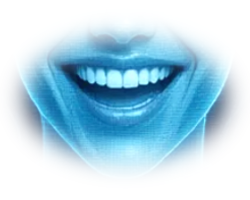
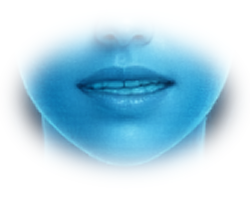
0.96.110: mouth shapes from ComfyUI Expression Editor pictures, make_mouths tool
Claude-Session: https://claude.ai/code/session_014xZyyvKse2sKH34U51trSv

diff --git a/tools/make_mouths.py b/tools/make_mouths.py
@@ -1,0 +1,113 @@
+"""Turn mouth pictures made in ComfyUI (the Expression Editor) into Starling's mouth cut-outs.
+
+Usage (from the Starling folder; needs Pillow and numpy only):
+    python tools/make_mouths.py FOLDER
+FOLDER holds 512 x 768 pictures of her (made from starling_base_512x768.png) named
+    ah.png eh.png ee.png oh.png oo.png pressed.png fv.png smile.png
+(any of them; the ones you leave out are left alone). The mouth area is cut from each, lined up with her still picture,
+its colour matched to the still picture, and written to ui/assets/hologram/<name>.png. Add --check to only print the numbers
+and write a picture of the result to FOLDER/check.png without changing anything.
+"""
+
+import json
+import sys
+from pathlib import Path
+
+import numpy as np
+from PIL import Image
+
+ASSETS = Path(__file__).resolve().parent.parent / "ui" / "assets" / "hologram"
+NAMES = ("ah", "eh", "ee", "oh", "oo", "pressed", "fv", "smile")
+BOX = (270, 330, 250, 200)                    # where the mouth cut-outs sit on her 784 x 1168 base picture (hologram.json)
+OUT_W, OUT_H = 512, 768                       # the size of the ComfyUI pictures
+SX, SY = 516 / 784.0, 768 / 1168.0            # base picture -> the 512 x 768 picture (scaled to 768 tall, then 2 pixels cropped each side)
+CROP_X = 2
+
+
+def to_small(base):
+    """Her still picture the way the ComfyUI picture was made from it (so the two can be compared)."""
+    return base.resize((516, 768), Image.LANCZOS).crop((CROP_X, 0, CROP_X + OUT_W, OUT_H))
+
+
+def grey(image, box):
+    return np.asarray(image.convert("L").crop(box), dtype=np.float32)
+
+
+def find_shift(reference, picture, reach=8):
+    """How far the face in the new picture has moved from the still picture (looks at the eyes and nose, not the mouth)."""
+    box = (150, 110, 370, 235)
+    want = grey(reference, box)
+    best = (1e9, 0, 0)
+    for dy in range(-reach, reach + 1):
+        for dx in range(-reach, reach + 1):
+            moved = grey(picture, (box[0] + dx, box[1] + dy, box[2] + dx, box[3] + dy))
+            error = float(np.abs(moved - want).mean())
+            if error < best[0]:
+                best = (error, dx, dy)
+    return best
+
+
+def cut(picture, dx, dy):
+    """The mouth box, cut from the ComfyUI picture and scaled back up to 250 x 200 (bicubic)."""
+    x0 = BOX[0] * SX - CROP_X + dx
+    y0 = BOX[1] * SY + dy
+    return picture.transform((BOX[2], BOX[3]), Image.AFFINE, (SX, 0, x0, 0, SY, y0), resample=Image.BICUBIC)
+
+
+def make(name, picture, base, alpha_from, check=False):
+    reference = to_small(base)
+    error, dx, dy = find_shift(reference, picture)
+    sprite = np.asarray(cut(picture.convert("RGB"), dx, dy), dtype=np.float32)
+    still = np.asarray(base.crop((BOX[0], BOX[1], BOX[0] + BOX[2], BOX[1] + BOX[3])).convert("RGB"), dtype=np.float32)
+    alpha = np.asarray(alpha_from)[..., 3].astype(np.float32) / 255.0
+    outside = alpha < 0.15                                           # skin around the mouth: should look the same as the still picture
+    offset = (still[outside] - sprite[outside]).mean(axis=0) if outside.sum() > 50 else np.zeros(3)
+    sprite = np.clip(sprite + offset, 0, 255)
+    rgba = np.dstack([sprite, alpha * 255.0]).astype(np.uint8)
+    print("%-8s shift (%+d, %+d) px, face match error %.1f, colour shift (%+.0f %+.0f %+.0f)" % (name, dx, dy, error, *offset))
+    return Image.fromarray(rgba, "RGBA")
+
+
+def main(argv):
+    check = "--check" in argv
+    args = [a for a in argv if not a.startswith("--")]
+    if len(args) != 1:
+        print(__doc__)
+        return 1
+    folder = Path(args[0])
+    base = Image.open(ASSETS / json.loads((ASSETS / "hologram.json").read_text(encoding="utf-8"))["base"]).convert("RGB")
+    old_alpha = Image.open(ASSETS / "ah.png").convert("RGBA")
+    made = {}
+    for name in NAMES:
+        path = folder / ("%s.png" % name)
+        if not path.exists():
+            continue
+        picture = Image.open(path)
+        if picture.size != (OUT_W, OUT_H):
+            print("%s: the picture is %d x %d but should be %d x %d, skipped" % (name, picture.width, picture.height, OUT_W, OUT_H))
+            continue
+        existing = ASSETS / ("%s.png" % name)
+        alpha_from = Image.open(existing).convert("RGBA") if existing.exists() else old_alpha
+        made[name] = make(name, picture, base, alpha_from, check)
+    if not made:
+        print("No pictures found in", folder)
+        return 1
+    if check:
+        # a picture of the result: her still face with each new mouth on it
+        face = base.crop((200, 220, 590, 560))
+        sheet = Image.new("RGB", (face.width * len(made), face.height))
+        for i, (name, sprite) in enumerate(made.items()):
+            tile = face.copy()
+            tile.paste(sprite.convert("RGB"), (BOX[0] - 200, BOX[1] - 220), sprite.split()[3])
+            sheet.paste(tile, (i * face.width, 0))
+        sheet.save(folder / "check.png")
+        print("wrote", folder / "check.png")
+        return 0
+    for name, sprite in made.items():
+        sprite.save(ASSETS / ("%s.png" % name))
+    print("wrote %d mouth pictures to %s" % (len(made), ASSETS))
+    return 0
+
+
+if __name__ == "__main__":
+    sys.exit(main(sys.argv[1:]))

diff --git a/tests/test_make_mouths.py b/tests/test_make_mouths.py
@@ -1,0 +1,52 @@
+"""tools/make_mouths.py: cut the mouth from a ComfyUI picture and fit it to her still picture."""
+
+import json
+import sys
+import tempfile
+import unittest
+from pathlib import Path
+
+import numpy as np
+from PIL import Image
+
+sys.path.insert(0, str(Path(__file__).resolve().parent.parent / "tools"))
+import make_mouths as mm  # noqa: E402
+
+
+class MouthToolTests(unittest.TestCase):
+    def setUp(self):
+        self.base = Image.open(mm.ASSETS / "base.jpg").convert("RGB")
+        self.still = mm.to_small(self.base)
+
+    def test_the_still_picture_matches_itself_with_no_shift(self):
+        error, dx, dy = mm.find_shift(self.still, self.still)
+        self.assertEqual((dx, dy), (0, 0))
+        self.assertLess(error, 0.01)
+
+    def test_a_moved_face_is_found(self):
+        moved = Image.new("RGB", self.still.size)
+        moved.paste(self.still, (0, 3))                 # face 3 pixels lower
+        error, dx, dy = mm.find_shift(self.still, moved)
+        self.assertEqual((dx, dy), (0, 3))               # look 3 pixels lower in the new picture
+
+    def test_the_cut_out_has_the_right_size_and_keeps_the_old_shape(self):
+        old = Image.open(mm.ASSETS / "ah.png").convert("RGBA")
+        sprite = mm.make("ah", self.still, self.base, old)
+        self.assertEqual(sprite.size, (mm.BOX[2], mm.BOX[3]))
+        self.assertEqual(sprite.mode, "RGBA")
+        self.assertTrue(np.array_equal(np.asarray(sprite)[..., 3], np.asarray(old)[..., 3]))
+
+    def test_the_mouth_pictures_that_ship_are_the_right_size(self):
+        meta = json.loads((mm.ASSETS / "hologram.json").read_text(encoding="utf-8"))
+        for name in mm.NAMES:
+            self.assertEqual(Image.open(mm.ASSETS / ("%s.png" % name)).size, (mm.BOX[2], mm.BOX[3]), name)
+            self.assertIn(name, meta["sprites"])
+
+    def test_a_wrong_size_picture_is_skipped(self):
+        folder = Path(tempfile.mkdtemp())
+        Image.new("RGB", (100, 100)).save(folder / "ah.png")
+        self.assertEqual(mm.main([str(folder)]), 1)
+
+
+if __name__ == "__main__":
+    unittest.main()

diff --git a/core/version.py b/core/version.py
@@ -1,2 +1,2 @@
 """The one place the version number lives. The updater compares this with the newest GitHub release."""
-__version__ = "0.96.109"
+__version__ = "0.96.110"

diff --git a/README.md b/README.md
@@ -40,6 +40,8 @@ New in 0.90.2: AUSTRALIAN VOICE INSTALL FIX. On a computer where the normal voic
 New in 0.90.3: TWO COMMANDS FROM A TESTER'S LOG. (1) 'FSS off' (and 'turn off FSS', 'FSS closed') now closes the full spectrum scanner; before it said 'that isn't a command I have'. (2) 'Hide biology' and 'show biology' now work without having to say 'overlay' or 'list' as well. Not tested live.
 New in 0.90.4: FIXES FROM A STREAM LOG. (1) A real bug: once, 'weapons away' did nothing and she said 'Elite Dangerous is not the active window' even though it was, because two parts of Starling shared one Windows window-listing call and tripped over each other; each now has its own. (2) 'Hello, how are you?' got a strange 'how long have you felt that way?' answer; greetings joined to 'how are you' now work, and slang like 'wassup', 'whats up' and 'yo' too (also from stream chat). (3) 'Hide all overlays' is understood when it is misheard as 'hide at all overlays' or 'height overlays'. (4) Saying just 'hardpoints' toggles the hardpoints. (5) The log no longer fills with a YouTube 'looking for live chat' line every 30 seconds while you are not live. Windows parts untested live.
 New in 0.90.5: SHE FEELS MORE ALIVE (from a stream log). (1) Slow chat answers no longer hold up your commands: the small chat model takes 3 to 6 seconds, and a 'weapons away' said in that time used to wait behind it. Chat now thinks on its own thread. (2) 'What was the terraformable world in this system?' / 'what did we find in this system?' is answered from what the scanner showed her (terraformable, earth-like, water and ammonia worlds in the system you are in). (3) 'Can you remember my dogs' names?' works, lists all the pets you told her about, and if you haven't told her she says so instead of inventing names (a small chat model once made up 'Luna and Charlie'). (4) 'Thank you for being a good ship' gets one 'No problem', not that plus a second helpdesk-style answer; and helpdesk phrases like 'just let me know' from the chat model are thrown away so she keeps her own voice. Not tested live.
+New in 0.96.110: HER MOUTH SHAPES ARE NOW FROM YOUR COMFYUI PICTURES. The eight mouth pictures she speaks with (ah, eh, ee, oh, oo, pressed lips, f/v, smile) were replaced with the ones you made in the Expression Editor. A new tool, `python tools/make_mouths.py FOLDER`, cuts the mouth from each 512 x 768 picture, lines it up with her still picture (it measures how far the face moved) and matches the colour so there is no visible patch; add --check for a side-by-side picture without changing anything. Your originals are kept in docs/mouth_sources (including smile_open, which is not used yet). NOT TESTED on screen: how it looks while she talks. The 'ah' picture had her head 8 pixels higher than the still (the biggest shift), so watch for the mouth sitting a touch high on that one. The f/v picture was the hardest shape and may not show teeth on the lip. Eyes are next.
+
 New in 0.96.109: BLOW-A-KISS CLIP. Your best ComfyUI blow_kiss video is now a Starling clip (hand to her lips, then she drops it with a big smile, about 3 seconds). I sped up the slow part where the hand rises and cut the long hold with the hand on her mouth, as you suggested. It does not play back in reverse (that would raise the hand again); she fades back to normal at the end. NOT TESTED on screen. NOT linked to any event yet, so she will not play it by herself: tell me which moments should trigger it (a follow, a thank you, flirty lines in naughty mode?). The glitchy spare hand at the start of the video is still visible for a few frames.
 
 New in 0.96.108: YOUR OWN VIDEO CLIPS ARE IN, AND CLIPS PLAY BACK TO HER NORMAL POSE. Her five poses (thinking, listening, pleased, bored1, bored2) are now the ones you made in ComfyUI, and she has a new recorded 'shake' clip for being refused docking, failed missions and so on. A clip that does not end where it began is now played forwards and then backwards, so she always finishes in her normal pose (no extra pictures are stored; the tool decides on its own, or you force it with `name=file.mp4:back` or `:loop`). A recorded clip with the same name as a built-in movement (shake, nod, startle) now replaces it. `tools/make_clips.py` accepts every name in docs/CLIP_SHOT_LIST.md. NOT TESTED on screen: how the new clips look on her window and whether the reverse looks natural. The match error against her still picture is 7.2 (3 or less is ideal), so you may see a slight jump when a clip starts or ends; tell me if you do. The ComfyUI_00001 smiling/winking clip was not added (name it and I will).

diff --git a/docs/PHASE6_GUIDE.md b/docs/PHASE6_GUIDE.md
@@ -1552,6 +1552,10 @@ window use the same code as the biology list.
 
 * voicepacks/default/brain.json: Brain_StreamHello 5->21 (+ Sarcastic, Close, Friendly), Brain_StreamBye 3->17 (+ Sarcastic, Close, new Friendly). Mature lines are flagged as before.
 
+## 0.96.110 - new mouth shapes
+
+`tools/make_mouths.py` replaces the mouth cut-outs (ui/assets/hologram/<shape>.png, 250 x 200, drawn at (270, 330) on the 784 x 1168 base). For each ComfyUI picture it finds how far the face moved (`find_shift`, eyes and nose only), cuts the mouth box with that shift, adds the average colour difference of the skin around the mouth, and keeps the old feathered alpha so the edge blends. Sources: docs/mouth_sources.
+
 ## 0.96.109 - blow_kiss clip
 
 New clip `blow_kiss` (ui/assets/hologram/clips). The source video was retimed before conversion (the arm raise sped up 2x, the hold on her mouth thinned to every third picture), then `python tools/make_clips.py blow_kiss=file.mp4:loop`. The `:loop` ending stops the tool from adding a reverse play-back. No REACTIONS entry yet.

diff --git a/docs/TODO.md b/docs/TODO.md
@@ -36,6 +36,7 @@ Measured = a real size (metres per map unit) from tester marks. Provisional = on
 - [ ] NOT LANDED ON YET: tourist_1 pad 1 (bottom small) and high_tech_1 pad 2 (Large).
 
 ### Needs a real-game test (built, not yet confirmed)
+- [ ] 0.96.110: new mouths. CHECK on screen: talk to her; does the mouth sit right (especially 'ah'), any visible patch edge, does f/v look odd? Then make the eye pictures.
 - [ ] 0.96.109: blow_kiss clip added but not linked to any event. Decide the triggers (follow? thank you? naughty-mode lines?). CHECK on screen: the clip looks right.
 - [ ] 0.96.108: new clips. CHECK on screen: thinking, listening, pleased, bored1/2 and the shake clip look right, the reverse playback looks natural, no jump at start or end; send the rest of the shot list.
 - [ ] 0.96.107: where is my carrier. CHECK: restart Starling, ask 'how far is my carrier'; she should say its name, the system and a distance; tell me if the name is in capitals or the distance is wrong.
